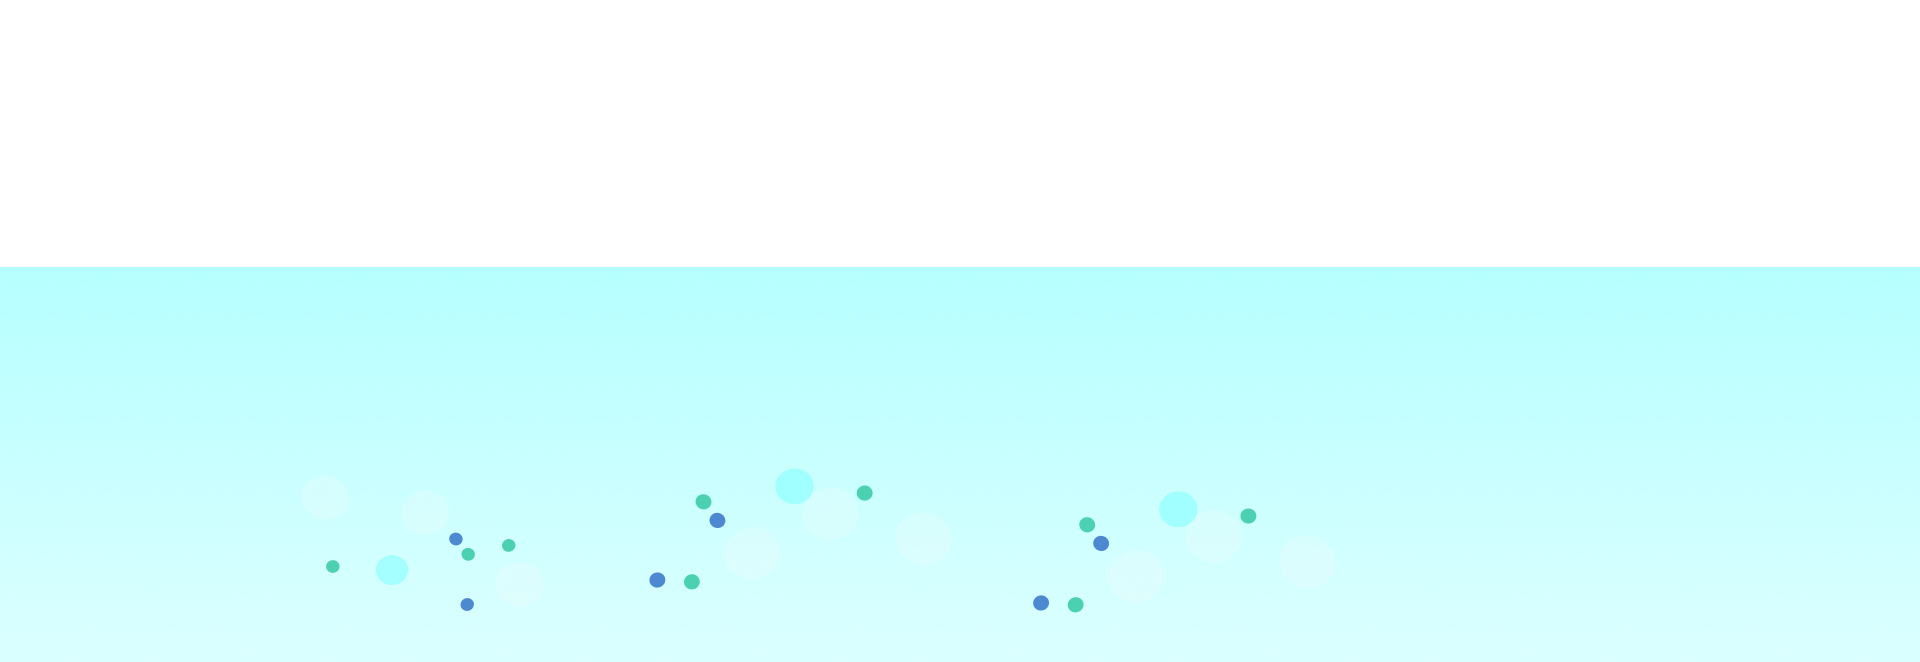
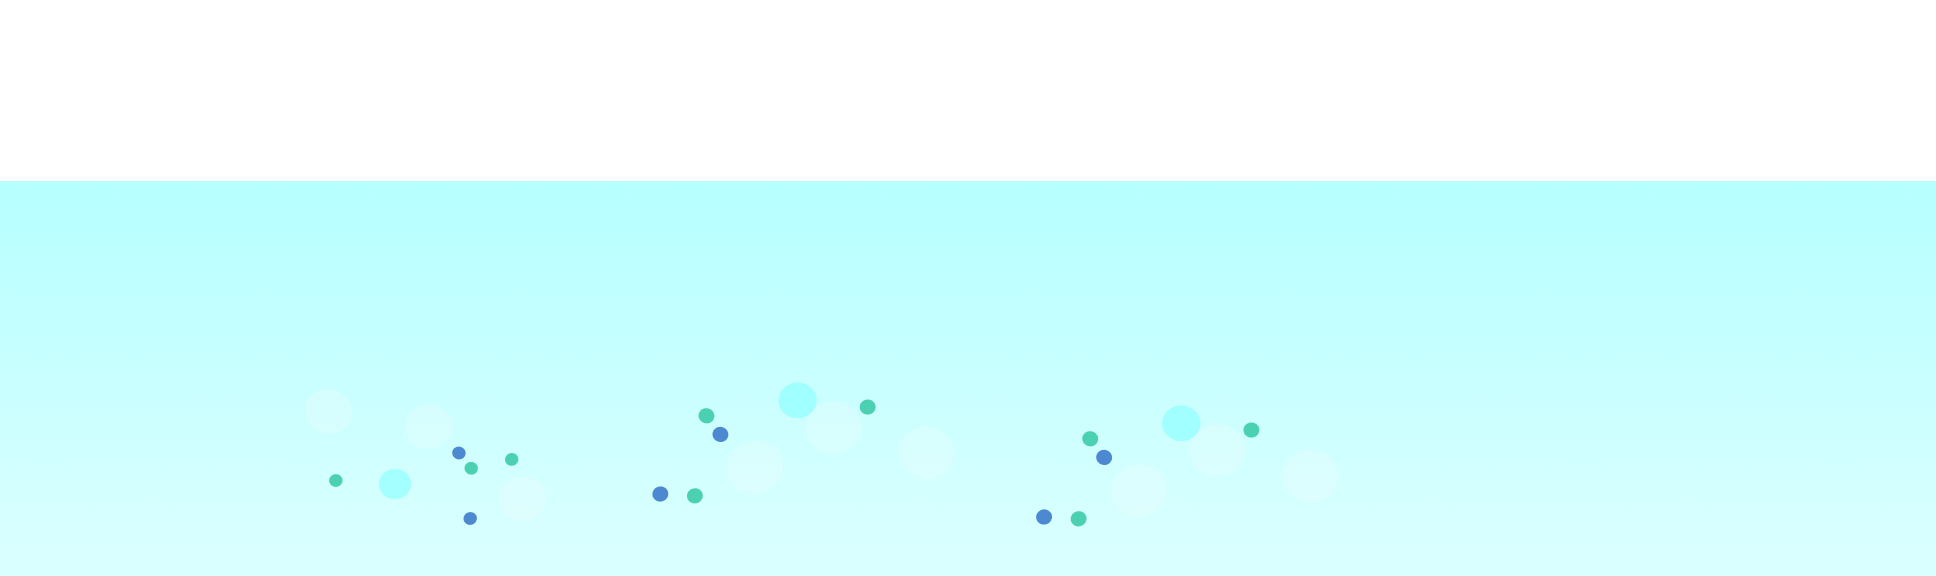
contact page

diff --git a/public/website/assets/css/color.css b/public/website/assets/css/color.css
@@ -176,6 +176,9 @@ button,
     background-color: #243772;
 }
 
+.procard:hover{
+    background: #243772;
+}
 .card-info{
     background: #243772; 
 }

diff --git a/public/website/assets/css/responsive.css b/public/website/assets/css/responsive.css
@@ -44,7 +44,7 @@
     
     }
     #footlogo{
-        width: 80%;
+        width: 90%;
     }
 }
 /* Large devices (Above 1200px) */

diff --git a/resources/views/website/pages/index.blade.php b/resources/views/website/pages/index.blade.php
@@ -10,11 +10,11 @@
                         <div class="row">
                             <div class="col-xl-7 col-lg-8">
                                 <div class="slider-content z-10">
-                                    <h5 class="line-head">
+                                    {{-- <h5 class="line-head">
                               25 years of experience
                             <span class="line  after"></span>
-                          </h5>
-                                    <h1 class="banner-head-2 f-700 mt-25 mb-35 mt-xs-20 mb-xs-30">We are Uncompetitive in Consulting Solution Around the world.</h1>
+                          </h5> --}}
+                                    <h1 class="banner-head-2 f-700 mt-25 mb-35 mt-xs-20 mb-xs-30">Effortless Efficiency: Transform your material handling experience</h1>
                                     {{-- <a href="#" class="btn btn-square">Learn More<i class="fas fa-long-arrow-alt-right ml-20"></i></a> --}}
                                 </div>
                             </div>
@@ -28,11 +28,29 @@
                         <div class="row">
                             <div class="col-xl-7 col-lg-8">
                                 <div class="slider-content z-10">
-                                    <h5 class="line-head">
+                                    {{-- <h5 class="line-head">
                                         1000+ Happy Clients
                                         <span class="line  after"></span>
-                                    </h5>
-                                    <h1 class="banner-head-2 f-700 mt-25 mb-35 mt-xs-20 mb-xs-30">Let's Make Something Awesome Together with the Right People.</h1>
+                                    </h5> --}}
+                                    <h1 class="banner-head-2 f-700 mt-25 mb-35 mt-xs-20 mb-xs-30"> Discover durability like never before with our robust solutions</h1>
+                                    {{-- <a href="#" class="btn btn-square">Learn More<i class="fas fa-long-arrow-alt-right ml-20"></i></a> --}}
+                                </div>
+                            </div>
+                        </div>
+                    </div>
+                </div>
+            </div>
+            <div class="item">
+                <div class="silder-img" id="sliderbk1" style="background-image: url('{{ asset('website/assets/img/banner/HOME_PAGE.png')}}');" data-overlay="7">
+                    <div class="container">
+                        <div class="row">
+                            <div class="col-xl-7 col-lg-8">
+                                <div class="slider-content z-10">
+                                    {{-- <h5 class="line-head">
+                                        25 years of experience
+                                    <span class="line  after"></span>
+                                </h5> --}}
+                                    <h1 class="banner-head-2 f-700 mt-25 mb-35 mt-xs-20 mb-xs-30">Elevate your business operations with our innovative designs</h1>
                                     {{-- <a href="#" class="btn btn-square">Learn More<i class="fas fa-long-arrow-alt-right ml-20"></i></a> --}}
                                 </div>
                             </div>
@@ -90,11 +108,11 @@
     <!-- Slider end -->
 
      <!-- title start -->
-     <section class="callback-area pt-25 pb-5" data-overlay="9">
+     <section class="callback-area" data-overlay="9">
         <div class="container">
             <div class="row">
                 <div class="col-xl-12">
-                    <div class="fancy-head text-center relative z-5 mb-40 wow fadeInDown">
+                    <div class="fancy-head text-center relative z-5 m-4 wow fadeInDown">
                         <h1 class="white">Our Products</h1>
                     </div>
                 </div>
@@ -106,16 +124,16 @@
 
        <!-- products  start -->
 <div class="">
-     <section class="team-area bg-blue-op-11 pt-50 pb-70">
+     <section class="team-area bg-blue-op-11 pt-20 pb-30">
         <div class="container">
             <div class="row">
                 <div class="col-lg-4 col-md-4 col-sm-6 mb-30">
                     <div class="team-2-each card relative border shadow-3">
                     <div class="product_img text-center p-3">
                         <h3 class="f-700 p-3">TAILOR</h3>
-                        <a href="#"><img src="{{ asset('website/assets/img/products/Ellipse 7.png')}}" alt=""></a>
+                        <a ><img src="{{ asset('website/assets/img/products/Ellipse 7.png')}}" alt=""></a>
                     </div>
-                        <div class="team-hover-div text-center transition-3">
+                        <div class="team-hover-div procard text-center transition-3">
                             {{-- <h4 class="white f-700"><a href="#">TAILOR</a></h4> --}}
                             <!-- <p class="green mb-0">Co Founder</p> -->
                         </div>
@@ -125,9 +143,9 @@
                     <div class="team-2-each card relative border shadow-3">
                         <div class="product_img text-center p-3">
                             <h3 class="f-700 p-3">PLATFORM</h3>
-                            <a href="#"><img src="{{ asset('website/assets/img/products/Ellipse 6.png')}}" alt=""></a>
+                            <a><img src="{{ asset('website/assets/img/products/Ellipse 6.png')}}" alt=""></a>
                         </div>
-                        <div class="team-hover-div text-center transition-4">
+                        <div class="team-hover-div procard text-center transition-4">
                             {{-- <h5 class="white f-700"><a href="#">PLATFORM</a></h5> --}}
                             <!-- <p class="green mb-0">Marketing Manager</p> -->
                         </div>
@@ -137,9 +155,9 @@
                     <div class="team-2-each card relative border shadow-3">
                     <div class="product_img text-center p-3">
                         <h3 class="f-700 p-3">PLATS</h3>
-                        <a href="#"><img src="{{ asset('website/assets/img/products/Ellipse 5.png')}}" alt=""></a>
+                        <a><img src="{{ asset('website/assets/img/products/Ellipse 5.png')}}" alt=""></a>
                     </div>
-                        <div class="team-hover-div text-center transition-4">
+                        <div class="team-hover-div procard text-center transition-4">
                             {{-- <h5 class="white f-700"><a href="#">PLATS</a></h5> --}}
                             <!-- <p class="green mb-0">Web Designer</p> -->
                         </div>
@@ -149,9 +167,9 @@
                     <div class="team-2-each card relative border shadow-3">
                     <div class="product_img text-center p-3">
                         <h3 class="f-700 p-3">PLATFORM</h3>
-                        <a href="#"><img src="{{ asset('website/assets/img/products/Ellipse 6.png')}}" alt=""></a>
+                        <a><img src="{{ asset('website/assets/img/products/Ellipse 6.png')}}" alt=""></a>
                     </div>
-                        <div class="team-hover-div text-center transition-4">
+                        <div class="team-hover-div procard text-center transition-4">
                             {{-- <h5 class=" f-700"><a href="#">TAILOR</a></h5> --}}
                             <!-- <p class="green mb-0">Finance Manager</p> -->
                         </div>
@@ -161,9 +179,9 @@
                     <div class="team-2-each card relative border shadow-3">
                     <div class="product_img text-center p-3">
                         <h3 class="f-700 p-3">TAILOR</h3>
-                        <a href="#"><img src="{{ asset('website/assets/img/products/Ellipse 7.png')}}" alt=""></a>
+                        <a><img src="{{ asset('website/assets/img/products/Ellipse 7.png')}}" alt=""></a>
                     </div>
-                        <div class="team-hover-div text-center transition-4">
+                        <div class="team-hover-div procard text-center transition-4">
                             {{-- <h5 class="white f-700"><a href="#">PLATFORM</a></h5> --}}
                             <!-- <p class="green mb-0">Web Designer</p> -->
                         </div>
@@ -173,9 +191,9 @@
                     <div class="team-2-each card relative border shadow-3">
                     <div class="product_img text-center p-3">
                         <h3 class="f-700 p-3">PLATS</h3>
-                        <a href="#"><img src="{{ asset('website/assets/img/products/Ellipse 5.png')}}" alt=""></a>
+                        <a><img src="{{ asset('website/assets/img/products/Ellipse 5.png')}}" alt=""></a>
                     </div>
-                        <div class="team-hover-div text-center transition-4">
+                        <div class="team-hover-div procard text-center transition-4">
                             {{-- <h5 class="white f-700"><a href="#">PLATS</a></h5> --}}
                             <!-- <p class="green mb-0">Web Designer</p> -->
                         </div>
@@ -198,7 +216,7 @@
 
 
         <!-- services start -->
-        <section class="servicebk pt-60 pb-50" data-overlay="9">
+        <section class="servicebk pt-40 pb-40" data-overlay="9">
         <div class="container">
             <div class="row">
                     <div class="col-xl-12">
@@ -475,7 +493,7 @@
     <section>
         <div class="container pt-30 pb-30">
             <div class="row">
-                <img src="{{ asset('website/assets/img/banner/contact.png')}}" alt="">
+                <img src="{{ asset('website/assets/img/banner/HOME_PAGE2.png')}}" alt="">
             </div>
         </div>
     </section>

diff --git a/resources/views/website/pages/about.blade.php b/resources/views/website/pages/about.blade.php
@@ -89,35 +89,37 @@
             <div class="container">
                 <div class="row">
                     <div class="col-xl-12">
-                        <div class="fancy-head text-center relative z-5 mb-40 wow fadeInDown">
+                        <div class="fancy-head text-center relative z-5 mb-4 wow fadeInDown">
                             <h1>Director Desk</h1>
                         </div>
                     </div>
-                </div>        
+                </div>  
+                <div class="container">
+       
+                    <div class="row">
+                       <div class="card director shadow-1">
+                               
+                           <div class="row p-2">
+                               <div class="col-lg-4 col-md-4 col-sm-4">
+                                   <img src="{{ asset('website/assets/img/about/director1.png')}}" alt="">
+                               </div>
+                               <div class="col-lg-8 col-md-8 col-sm-8 text-break p-5">
+                                   <h4 class="white ">Lorem ipsum dolor sit amet consectetur adipisicing elit. Laborum, assumenda quam placeat porro soluta quod sapiente accusamus consectetur excepturi nobis tenetur culpa veniam qui, provident cupiditate blanditiis harum neque ipsum!</h4>
+                                   
+                                   </div>
+                                  
+                                   
+                               </div>
+                           </div>
+                       </div>
+                   </div>
+                        
+           </div>
+                
             </div>
   
    
-        <div class="container">
        
-                 <div class="row p-4">
-                    <div class="card director shadow-1">
-                            
-                        <div class="row p-2">
-                            <div class="col-lg-4 col-md-4 col-sm-4">
-                                <img src="{{ asset('website/assets/img/about/director1.png')}}" alt="">
-                            </div>
-                            <div class="col-lg-8 col-md-8 col-sm-8 text-break p-5">
-                                <h4 class="white ">Lorem ipsum dolor sit amet consectetur adipisicing elit. Laborum, assumenda quam placeat porro soluta quod sapiente accusamus consectetur excepturi nobis tenetur culpa veniam qui, provident cupiditate blanditiis harum neque ipsum!</h4>
-                                
-                                </div>
-                               
-                                
-                            </div>
-                        </div>
-                    </div>
-                </div>
-                     
-        </div>
                 </section>
 
     <!-- end Director desk -->

diff --git a/resources/views/website/layouts/header.blade.php b/resources/views/website/layouts/header.blade.php
@@ -41,6 +41,7 @@
     <link rel="stylesheet" href="{{ asset('website/assets/webfonts/fa-solid-900.woff2')}}">
     <link rel="stylesheet" href="{{ asset('website/assets/webfonts/fa-solid-900d41d.eot')}}">
     <!-- End CSS files -->
+    <link rel="stylesheet" href="https://cdnjs.cloudflare.com/ajax/libs/font-awesome/6.5.1/css/all.min.css" integrity="sha512-DTOQO9RWCH3ppGqcWaEA1BIZOC6xxalwEsw9c2QQeAIftl+Vegovlnee1c9QX4TctnWMn13TZye+giMm8e2LwA==" crossorigin="anonymous" referrerpolicy="no-referrer" />
 </head>
 
 <body>

diff --git a/resources/views/website/pages/contact.blade.php b/resources/views/website/pages/contact.blade.php
@@ -12,7 +12,7 @@
     <!--  -->
     <section>
         <div class="contbak">
-            <div class="container-fluid mb-40 pt-100 pb-100">
+            <div class="container-fluid mb-40 pt-30 pb-100">
                 <div class="row">
                     <div class="col-lg-3 col-md-4 col-sm-12 p-2">
                         <div class="card text-center">

diff --git a/resources/views/website/pages/product.blade.php b/resources/views/website/pages/product.blade.php
@@ -174,7 +174,7 @@
     <section>
         <div class="container-fluid pt-25 pb-25">
             <div class="row">
-                <img src="{{ asset('website/assets/img/products/prodbannr.png')}}" alt="">
+                <img src="{{ asset('website/assets/img/banner/HOME_PAGE3.png')}}" alt="">
             </div>
         </div>
     </section>

diff --git a/resources/views/website/pages/services.blade.php b/resources/views/website/pages/services.blade.php
@@ -195,7 +195,7 @@
     <section>
         <div class="container-fluid pb-10 pt-50">
             <div class="row">
-                <img src="{{ asset('website/assets/img/products/prodbannr.png')}}" alt="">
+                <img src="{{ asset('website/assets/img/banner/HOME_PAGE3.png')}}" alt="">
             </div>
         </div>
     </section>

diff --git a/resources/views/website/layouts/footer.blade.php b/resources/views/website/layouts/footer.blade.php
@@ -1,6 +1,6 @@
 
     <!-- Footer area start -->
-<section class="pb-20">
+<section class="">
     <div class="row footlogocol">
         <div class="col-lg-3 col-md-12 text-center  bg-green-op-6" style="">
             <img src="{{ asset('website/assets/img/logo/FOOTER.png')}}" id="footlogo" alt="">
